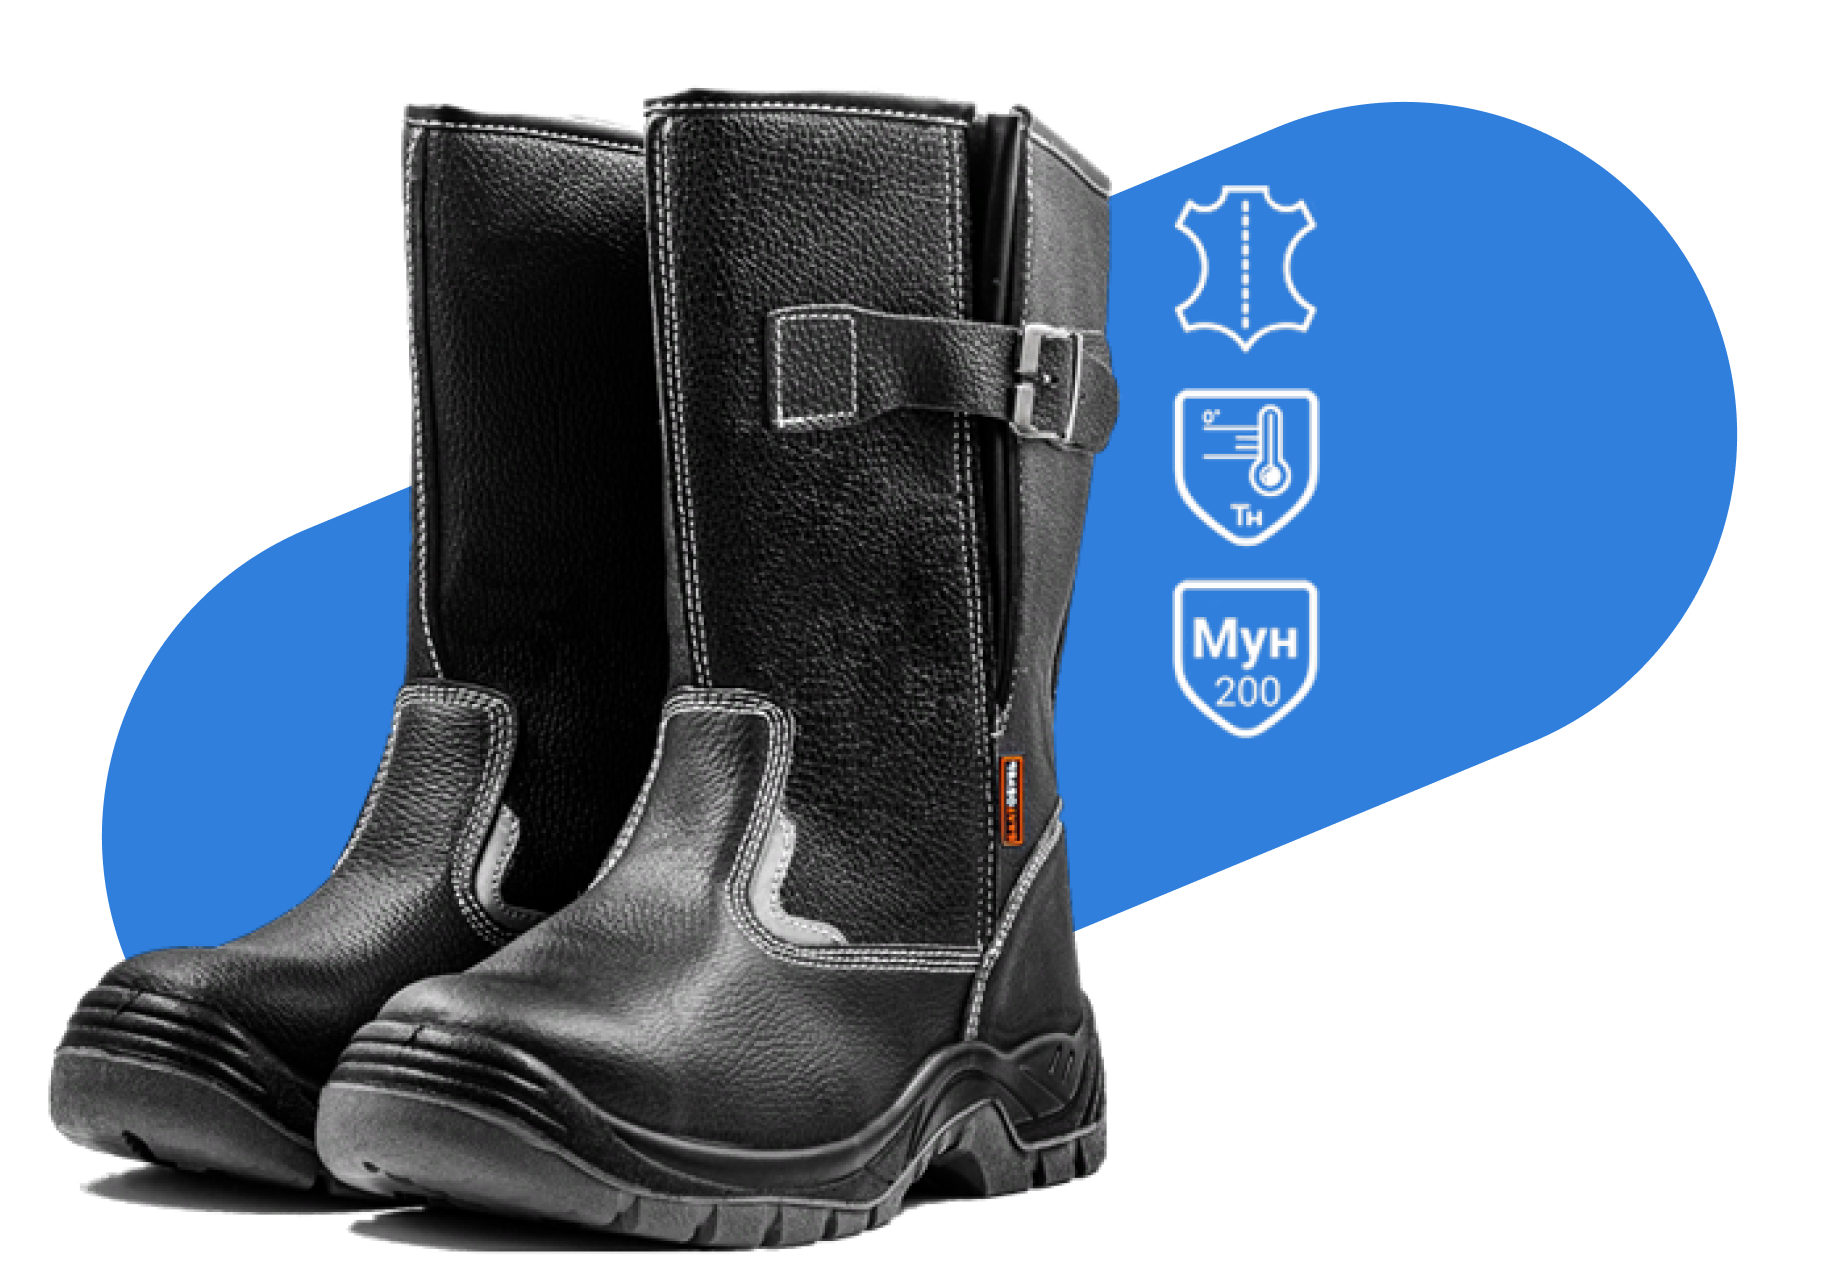
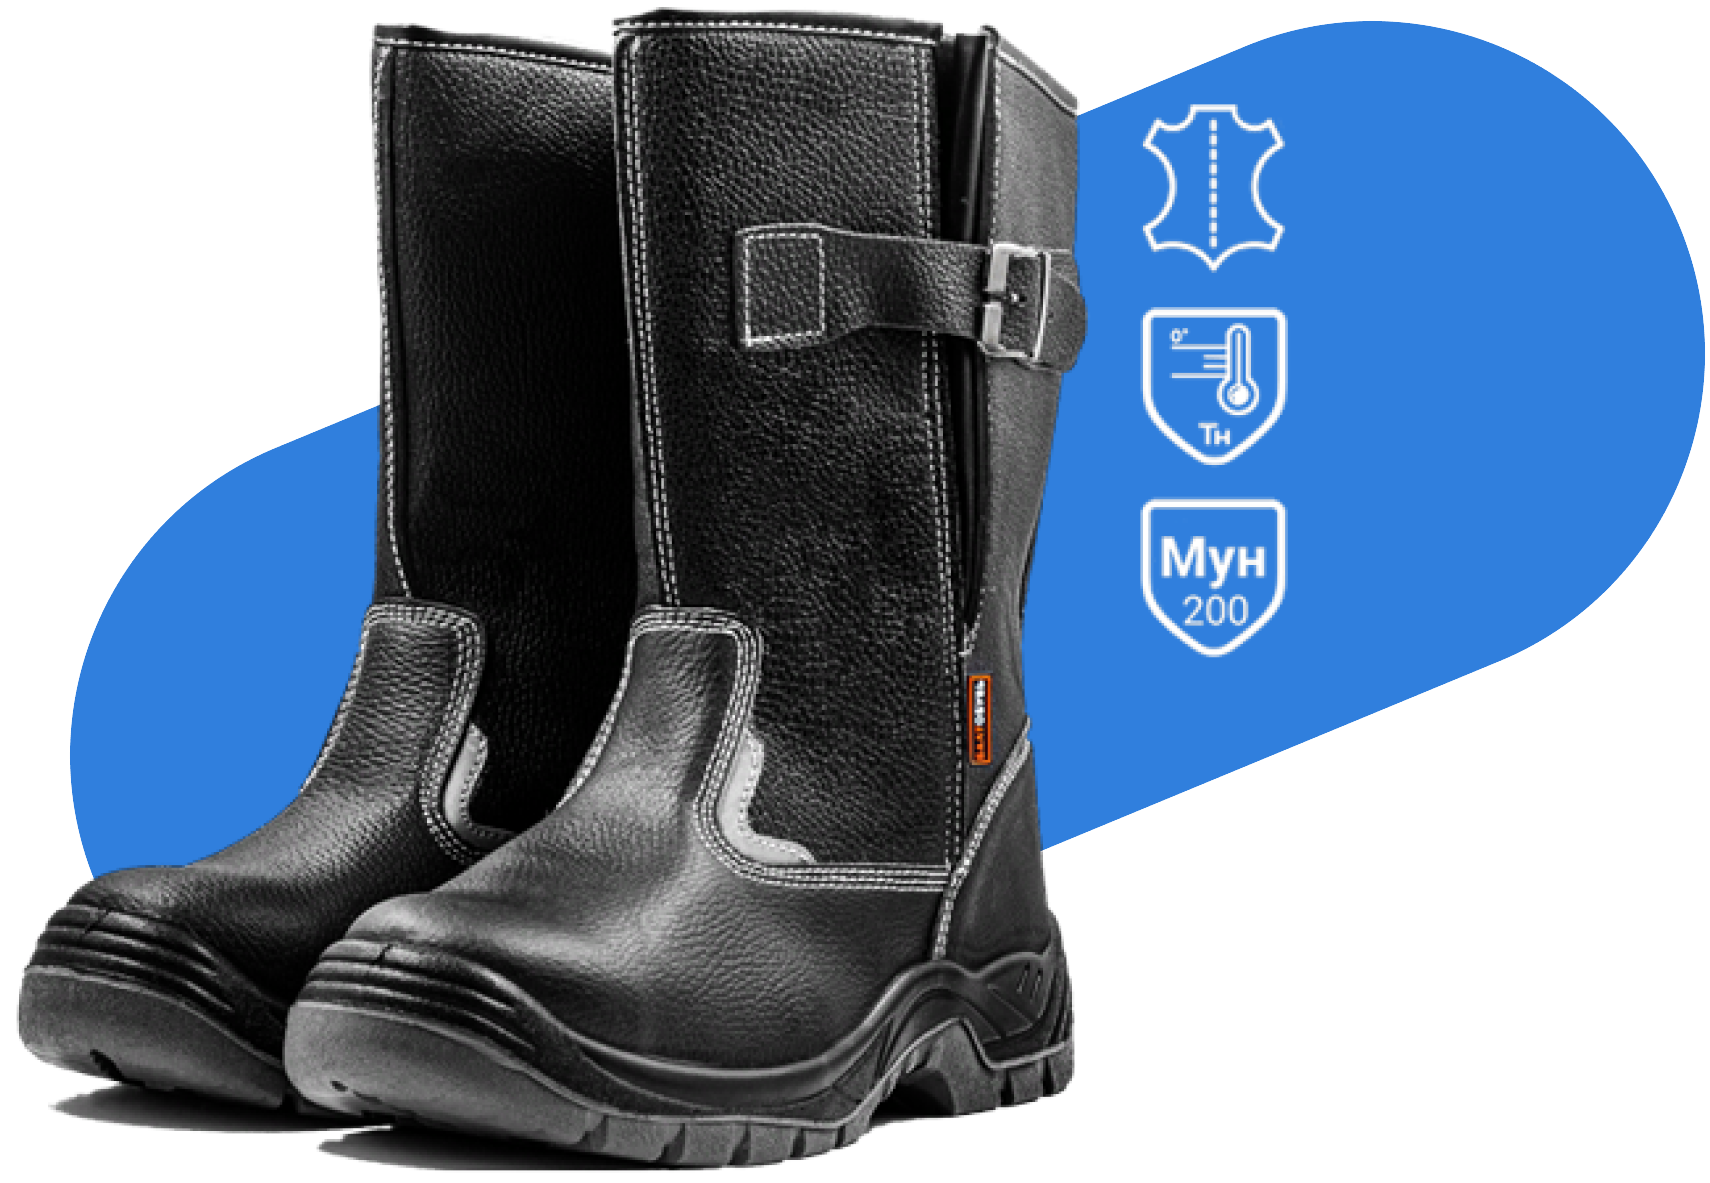
Hero added

Changed region(s): [[0.0, 0.0, 1.0, 1.0]]

diff --git a/index.html b/index.html
@@ -262,15 +262,15 @@
     <section class="hero">
         <div class="hero__container container">
             <div class="hero__left">
-                <div  class="hero__left-top">
-                    <div class="hero__left-btns" >
+                <div class="hero__left-top">
+                    <div class="hero__left-btns">
                         <a class="hero__left-btns-first" href="#">В наличии-много</a>
                         <a class="hero__left-btns-second" href="#">Хит</a>
                         <a class="hero__left-btns-third" href="#">Рекомендуем</a>
                     </div>
-                    <div class="hero__left-stars" >
-                        <ul class="hero__left-stars-list" >
-                            <li class="hero__left-stars-item" >
+                    <div class="hero__left-stars">
+                        <ul class="hero__left-stars-list">
+                            <li class="hero__left-stars-item">
                                 <svg width="13" height="12" viewBox="0 0 13 12" fill="none"
                                     xmlns="http://www.w3.org/2000/svg">
                                     <path
@@ -278,7 +278,7 @@
                                         fill="#EECE00" />
                                 </svg>
                             </li>
-                            <li class="hero__left-stars-item" >
+                            <li class="hero__left-stars-item">
                                 <svg width="13" height="12" viewBox="0 0 13 12" fill="none"
                                     xmlns="http://www.w3.org/2000/svg">
                                     <path
@@ -286,7 +286,7 @@
                                         fill="#EECE00" />
                                 </svg>
                             </li>
-                            <li class="hero__left-stars-item" >
+                            <li class="hero__left-stars-item">
                                 <svg width="13" height="12" viewBox="0 0 13 12" fill="none"
                                     xmlns="http://www.w3.org/2000/svg">
                                     <path
@@ -294,7 +294,7 @@
                                         fill="#EECE00" />
                                 </svg>
                             </li>
-                            <li class="hero__left-stars-item" >
+                            <li class="hero__left-stars-item">
                                 <svg width="13" height="12" viewBox="0 0 13 12" fill="none"
                                     xmlns="http://www.w3.org/2000/svg">
                                     <path
@@ -302,7 +302,7 @@
                                         fill="#EECE00" />
                                 </svg>
                             </li>
-                            <li class="hero__left-stars-item" >
+                            <li class="hero__left-stars-item">
                                 <svg width="13" height="12" viewBox="0 0 13 12" fill="none"
                                     xmlns="http://www.w3.org/2000/svg">
                                     <path
@@ -311,13 +311,13 @@
                                 </svg>
                             </li>
                         </ul>
-                        <span class="hero__left-stars-rank" >4,9</span>
+                        <span class="hero__left-stars-rank">4,9</span>
                     </div>
                 </div>
-                <h1 class="hero__title" >Сапоги защитные утепленные </h1>
-                <h3 class="hero__text" >на ПУ/ПУ подошве с металлическим подноском</h3>
-                <div class="hero__left_bottom" >
-                    <p class="hero__left__price" >от 5000₽</p>
+                <h1 class="hero__title">Сапоги защитные утепленные </h1>
+                <h3 class="hero__text">на ПУ/ПУ подошве с металлическим подноском</h3>
+                <div class="hero__left_bottom">
+                    <p class="hero__left__price">от 5000₽</p>
                     <a class="hero__left_bottom-btn-catalog" href="#">Перейти в каталог</a>
                     <a class="hero__left_bottom-btn" href="#">
                         <svg width="22" height="21" viewBox="0 0 22 21" fill="none" xmlns="http://www.w3.org/2000/svg">
@@ -335,8 +335,29 @@
                     </a>
                 </div>
             </div>
-            <div class="hero__right">
-                <img src="./img/hero/hero.png" alt="">
+            <div>
+                <img class="hero__right" src="./img/hero/hero.png" alt="">
+                <img class="hero__right-mobile" src="./img/hero/hero.png" alt="">
+            </div>
+            <div class="hero_price-mobile" >
+                <h3 class="hero_price-mobile-title" >от 5000₽</h3>
+                <div class="hero_price__btns" >
+                    <a class="hero__left_bottom-btn-catalog" href="#">Перейти в каталог</a>
+                    <a class="hero__left_bottom-btn" href="#">
+                        <svg width="22" height="21" viewBox="0 0 22 21" fill="none" xmlns="http://www.w3.org/2000/svg">
+                            <path fill-rule="evenodd" clip-rule="evenodd"
+                                d="M15.5532 0.702195C14.1056 0.702179 13.1724 0.875831 12.1027 1.40305C11.7066 1.59824 11.335 1.83331 10.99 2.10756C10.6582 1.84869 10.3015 1.62441 9.92181 1.43533C8.83132 0.892255 7.85028 0.702179 6.45455 0.702179C2.71644 0.702179 0 3.82079 0 7.87111C0 10.9299 1.69383 13.8847 4.84884 16.7418C6.50489 18.2415 8.61932 19.7257 10.1336 20.5152L11 20.967L11.8664 20.5152C13.3807 19.7257 15.4951 18.2415 17.1512 16.7418C20.3062 13.8847 22 10.9299 22 7.87111C22 3.86366 19.2579 0.717643 15.5532 0.702195ZM20 7.87113C20 10.2675 18.5862 12.7338 15.8137 15.2446C14.3022 16.6134 12.359 17.9814 11 18.699C9.64104 17.9814 7.69782 16.6134 6.18628 15.2446C3.41382 12.7338 2 10.2675 2 7.87113C2 4.87849 3.88364 2.71597 6.45455 2.71597C7.56428 2.71597 8.24813 2.84847 9.03514 3.2404C9.50001 3.47191 9.91088 3.77761 10.2665 4.15962L11.0023 4.94996L11.7315 4.15336C12.0951 3.75604 12.512 3.44339 12.9819 3.21179C13.7459 2.83528 14.387 2.71597 15.5491 2.71598C18.0882 2.72658 20 4.92002 20 7.87113Z"
+                                fill="white" />
+                        </svg>
+                    </a>
+                    <a class="hero__left_bottom-btn" href="#">
+                        <svg width="24" height="25" viewBox="0 0 24 25" fill="none" xmlns="http://www.w3.org/2000/svg">
+                            <path fill-rule="evenodd" clip-rule="evenodd"
+                                d="M9.99997 1.69528C8.9065 1.69528 8.01798 2.59379 8.00024 3.70906H19V18.7274L21 19.7513V3.74307C21 2.61211 20.1045 1.69528 19 1.69528H9.99997ZM10 19.9382L3 23.4623V7.73663C3 6.62445 3.89543 5.72285 5 5.72285H15C16.1046 5.72285 17 6.62445 17 7.73663V23.4623L10 19.9382ZM4.99999 20.2039L9.99999 17.6867L15 20.2039V7.73665H4.99999V20.2039Z"
+                                fill="white" />
+                        </svg>
+                    </a>
+                </div>
             </div>
         </div>
     </section>

diff --git a/css/style.css b/css/style.css
@@ -410,6 +410,10 @@ body {
     transition: all .1s ease;
 }
 
+.hero__right-mobile {
+    display: none;
+}
+
 @media (min-width: 820px) {
     .navbar__menu {
         max-height: none;
@@ -430,9 +434,9 @@ body {
 
 /* hero start  */
 
-
+/* Base styles for hero container and layout */
 .hero__container {
-    display: grid;
+    display: flex;
     grid-template-columns: repeat(5, 1fr);
     align-items: center;
     justify-content: space-between;
@@ -444,6 +448,13 @@ body {
     grid-column: span 2;
 }
 
+.hero__right {
+    max-width: 919px !important;
+    grid-column: span 3;
+    transform: translateX(120px);
+}
+
+/* Button styles */
 .hero__left-btns {
     display: flex;
     align-items: center;
@@ -451,47 +462,44 @@ body {
     margin-bottom: 10px;
 }
 
-.hero__left-btns-first {
+.hero__left-btns-first,
+.hero__left-btns-second,
+.hero__left-btns-third {
     padding: 6px 12px;
-    color: #00AD48;
     font-size: 12px;
     line-height: 16.2px;
     text-decoration: none;
-    background-color: white;
     border-radius: 5px;
+}
+
+.hero__left-btns-first {
+    color: #00AD48;
+    background-color: white;
 }
 
 .hero__left-btns-second {
-    padding: 6px 12px;
     color: white;
-    font-size: 12px;
-    line-height: 16.2px;
-    text-decoration: none;
     background-color: #00AD48;
-    border-radius: 5px;
 }
 
 .hero__left-btns-third {
-    padding: 6px 12px;
     color: white;
-    font-size: 12px;
-    line-height: 16.2px;
-    text-decoration: none;
     background-color: #307FDD;
-    border-radius: 5px;
 }
 
+/* Star ratings styles */
 .hero__left-stars {
     display: flex;
     align-items: center;
     gap: 10px;
+    margin-bottom: 15px;
 }
 
 .hero__left-stars-list {
-    list-style: none;
     display: flex;
     align-items: center;
     gap: 2px;
+    list-style: none;
 }
 
 .hero__left-stars-rank {
@@ -501,6 +509,7 @@ body {
     line-height: 18.9px;
 }
 
+/* Title and text styles */
 .hero__title {
     color: #264065;
     font-family: 'DaysFont', sans-serif;
@@ -517,6 +526,7 @@ body {
     margin-bottom: 50px;
 }
 
+/* Price and button styles */
 .hero__left_bottom {
     display: flex;
     align-items: center;
@@ -530,44 +540,152 @@ body {
     line-height: 45.9px;
 }
 
+.hero__left_bottom-btn-catalog,
+.hero__left_bottom-btn {
+    border-radius: 9999px;
+    transition: opacity 0.2s;
+}
+
 .hero__left_bottom-btn-catalog {
+    padding: 20px 30px;
     color: white;
     background-color: #F2722C;
-    padding: 20px 30px;
-    border-radius: 9999px;
-    transition: all .2s;
     text-decoration: none;
 }
 
 .hero__left_bottom-btn {
     width: 54px;
     height: 54px;
-    border-radius: 9999px;
     background-color: #264065;
     display: flex;
     align-items: center;
     justify-content: center;
-    transition: all .2s;
 }
 
 .hero__left_bottom-btn-catalog:hover,
-.hero__left_bottom-btn:hover{
+.hero__left_bottom-btn:hover {
     opacity: 0.8;
 }
 
-.hero__right {
-    max-width: 919px !important;
-    grid-column: span 3;
-}
-
-.hero__right img {
-    width: 100% !important;
-    transform: translateX(207px);
-}
-
+/* Media Queries */
 @media (max-width: 1200px) {
-    .hero{
-        padding: 20px 0;
+    .hero {
+        padding: 28px 0;
+    }
+
+    .hero__title {
+        font-size: 50px;
+    }
+
+    .hero__text {
+        font-size: 30px;
+        line-height: 30px;
+    }
+
+    .hero__left_bottom-btn {
+        width: 45px;
+        height: 45px;
+    }
+
+    .hero__left_bottom-btn-catalog {
+        padding: 17px 18px;
+    }
+
+    .hero__left__price {
+        font-size: 26px !important;
+    }
+
+    .hero__right {
+        max-width: 800px !important;
+        width: 100%;
+    }
+}
+
+@media (max-width: 1050px) {
+    .hero__title {
+        font-size: 40px;
+        line-height: 40px;
+    }
+
+    .hero__text {
+        font-size: 24px;
+        margin-bottom: 15px;
+    }
+
+    .hero__left__price {
+        font-size: 20px !important;
+    }
+}
+
+/* Mobile view adjustments */
+.hero_price-mobile {
+    display: none;
+}
+
+@media (max-width: 900px) {
+    .hero__container {
+        flex-direction: column;
+        gap: 40px;
+    }
+
+    .hero__title {
+        font-size: 34px;
+        line-height: 34px;
+        margin-bottom: 10px;
+    }
+
+    .hero__right {
+        display: none !important;
+    }
+
+    .hero__right-mobile {
+        display: flex;
+        max-width: 500px;
+        width: 100%;
+    }
+
+    .hero__left-stars {
+        margin-bottom: 10px;
+    }
+
+    .hero_price-mobile {
+        display: flex;
+        flex-direction: column;
+    }
+
+    .hero_price__btns {
+        display: flex;
+        align-items: center;
+        gap: 15px;
+    }
+
+    .hero__left_bottom {
+        display: none;
+    }
+
+    .hero_price-mobile-title {
+        font-size: 34px;
+        font-weight: 600;
+        line-height: 45.9px;
+    }
+
+    .hero__left_bottom-btn-catalog {
+        padding: 12px 30px;
+    }
+
+    .hero__left_bottom-btn {
+        width: 36px;
+        height: 36px;
+    }
+}
+
+@media (max-width: 1332px) {
+    .hero__left_bottom-btn-catalog {
+        font-size: 12px;
+    }
+
+    .hero__left__price {
+        font-size: 30px;
     }
 }
 
